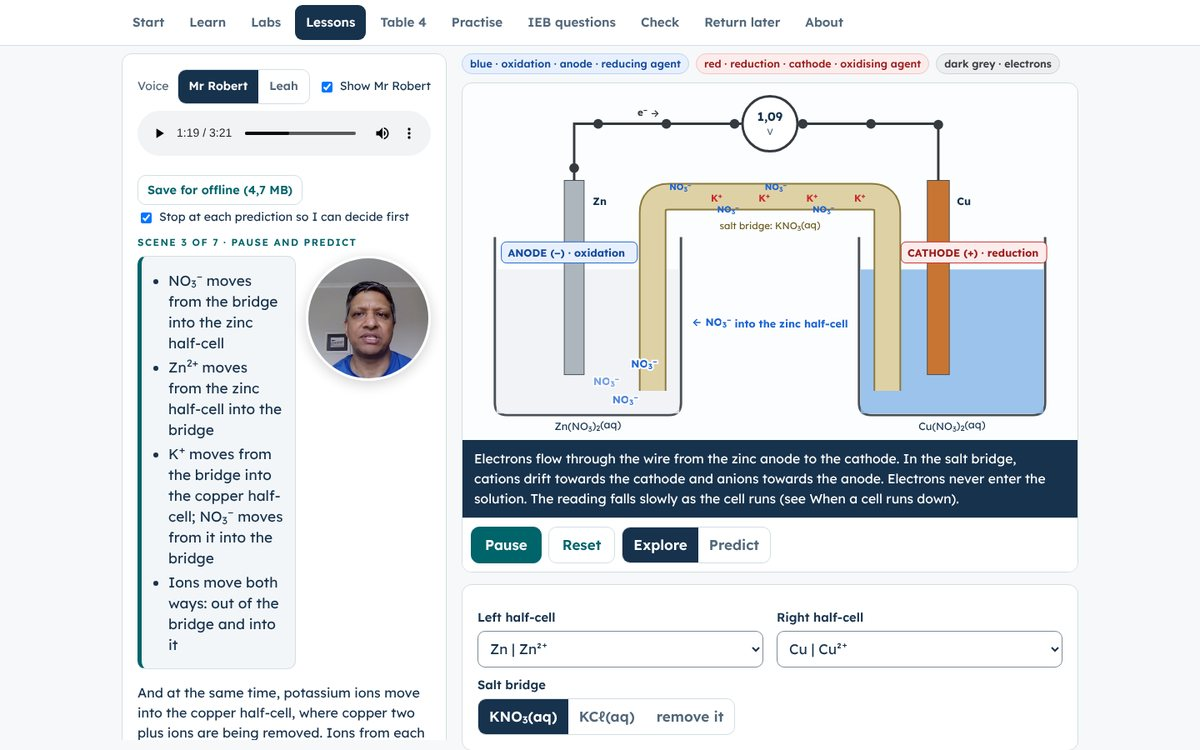
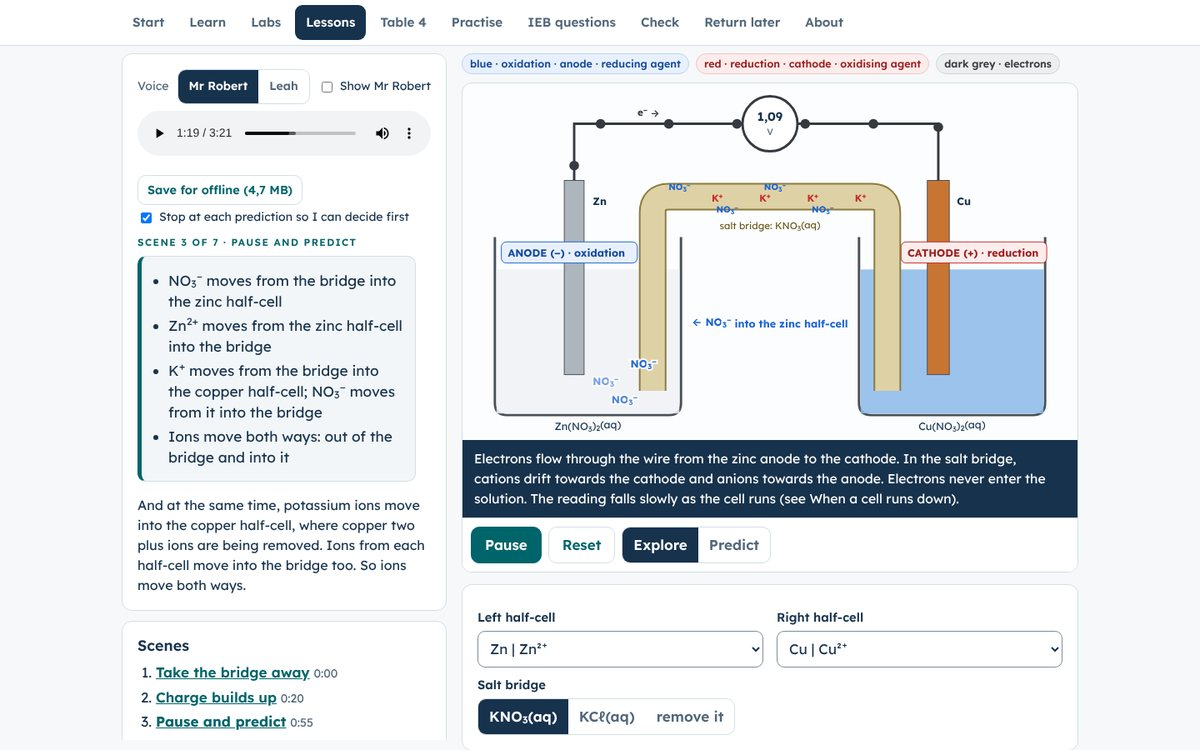
PD deck: no face in the talk; week video is voice only
Lesson screenshots in the deck are retaken with the face circle off,
and the slide text no longer mentions the face. The recording page
gets a voice-only mode (no camera, audio-only takes), used by the
week script. The face stays in the studio lesson itself.

Claude-Session: https://claude.ai/code/session_013EUEmas36xm6m9oQ3w2g8d

diff --git a/ai-pd/index.html b/ai-pd/index.html
@@ -603,9 +603,9 @@
     <p class="kicker">Act 3 · Watch: lessons in my own voice</p>
     <h2 class="headline">The lesson video <em>stops and makes pupils predict</em> before it explains.</h2>
     <div class="body vidwrap">
-      <div class="bcenter vshot"><img class="shot" src="img/week/l4-lesson.jpg" alt="The salt bridge lesson: Mr Robert in a circle beside the board, the live cell lab acting out the nitrate ions moving into the zinc half-cell"><button class="bopen" data-view="https://noelrobert-science.github.io/electrochemistry/#listen/L4" data-fallback="img/week/l4-lesson.jpg">Open the lesson ▸</button></div>
+      <div class="bcenter vshot"><img class="shot" src="img/week/l4-lesson.jpg" alt="The salt bridge lesson: the board beside the live cell lab, which acts out the nitrate ions moving into the zinc half-cell"><button class="bopen" data-view="https://noelrobert-science.github.io/electrochemistry/#listen/L4" data-fallback="img/week/l4-lesson.jpg">Open the lesson ▸</button></div>
       <div class="feats">
-        <div class="feat fragment dim-after" data-fx="none">A <b>3-minute lesson</b> in my own voice, my face in the corner</div>
+        <div class="feat fragment dim-after" data-fx="none">A <b>3-minute lesson</b> in my own voice, not an AI voice</div>
         <div class="feat fragment dim-after" data-fx="none">It <b>stops at the prediction</b>: write it down first</div>
         <div class="feat fragment dim-after" data-fx="none">The live lab <b>acts out</b> every sentence I say</div>
         <div class="feat fragment" data-fx="none">It ends with <b>Now train this</b>, one tap away</div>
@@ -614,7 +614,7 @@
   </div>
   <aside class="notes">
     Lesson 4, the salt bridge. I recorded it on 10 Nov 2026 on my laptop's own microphone, using a private recording page with a teleprompter. The sound was cleaned up, timed to the script and published the same day. No studio, no editing software on my side.
-    Pupils can switch to the AI voice (Leah) or hide my face, but the default is me: in the one study with high-school pupils and their own teacher (Griffiths 2024, 262 pupils aged 13 to 16), learning was about the same, but pupils felt more connected and more motivated. So expect engagement, not miracle marks. The face is small and only shows at the hook, the prediction, the trap and the end, because a face on screen pulls eyes off the diagram (Beege et al. 2023).
+    Pupils can switch to the AI voice (Leah), but the default is me. In the studio a small circle of my face can show at the hook, the prediction and the end (pupils can switch it off); it is deliberately not shown in this talk. In the one study with high-school pupils and their own teacher (Griffiths 2024, 262 pupils aged 13 to 16), learning was about the same, but pupils felt more connected and more motivated. So expect engagement, not miracle marks. A face on screen also pulls eyes off the diagram (Beege et al. 2023), so the lab does the showing.
     The lesson stops at the prediction ("Which ions move into the zinc half-cell? Pause and write it down"). The lab only shows the answer after they decide.
     Click "Open the lesson" to play it live (needs Wi-Fi).
     Sources: Electrochemistry Studio, Lessons, Lesson 4 (noelrobert-science.github.io/electrochemistry/#listen/L4, captured 10 Nov 2026); "Teacher-presented lessons: research and pilot plan" (10 Nov 2026).
@@ -736,7 +736,7 @@
     </div>
   </div>
   <aside class="notes">
-    Click Play (or Space). About 90 seconds: start of the lesson, in class, watch, train, write, check, days later. My face at the start and the end; real app screens in between; captions built in.
+    Click Play (or Space). About 90 seconds: start of the lesson, in class, watch, train, write, check, days later. My voice only (no face); real app screens throughout; captions built in.
     If the video hasn't been added yet, the slide says "Recording next" and the week timeline on the slide before covers the same ground.
     Sources: script in recorder/week.json (10 Nov 2026), drawn from "How a learner uses it all", "A typical week".
   </aside>

diff --git a/recorder/index.html b/recorder/index.html
@@ -189,7 +189,8 @@ video.playback { width: 100%; max-width: 420px; border-radius: 10px; background:
     const saved = await dbGet(lessonId + ':script');
     if (saved) script.scenes.forEach((s) => { if (saved[s.slug]) s.lines = saved[s.slug]; });
     items = [{ slug: script.roomTone.slug, t: 'Room tone', note: script.roomTone.note, lines: [], tone: true }].concat(script.scenes);
-    $('lessonName').textContent = script.lesson + ' · ' + script.title;
+    $('lessonName').textContent = script.lesson + ' · ' + script.title + (script.voiceOnly ? ' · voice only, no camera' : '');
+    if (script.voiceOnly) { $('startCam').textContent = 'Turn on the mic'; const cam = document.querySelector('.cam'); if (cam) cam.hidden = true; $('setBtn').textContent = 'Mic settings'; }
     for (const it of items) { const t = await dbGet(lessonId + ':' + it.slug); if (t) takes[it.slug] = t; }
     cur = 1; render();
   }
@@ -247,16 +248,17 @@ video.playback { width: 100%; max-width: 420px; border-radius: 10px; background:
       if (stream) stream.getTracks().forEach((t) => t.stop());
       const raw = $('raw').checked;
       const v = $('camSel').value, a = $('micSel').value;
+      const vo = !!(script && script.voiceOnly);
       stream = await navigator.mediaDevices.getUserMedia({
-        video: Object.assign({ width: { ideal: 1280 }, height: { ideal: 720 }, frameRate: { ideal: 30 } }, v ? { deviceId: { exact: v } } : {}),
+        video: vo ? false : Object.assign({ width: { ideal: 1280 }, height: { ideal: 720 }, frameRate: { ideal: 30 } }, v ? { deviceId: { exact: v } } : {}),
         audio: Object.assign({ echoCancellation: !raw, noiseSuppression: !raw, autoGainControl: !raw, channelCount: 1, sampleRate: 48000 }, a ? { deviceId: { exact: a } } : {})
       });
       $('preview').srcObject = stream;
       meter(stream);
       await listDevices();
-      $('recBtn').disabled = false; $('startCam').textContent = 'Restart camera and mic';
+      $('recBtn').disabled = false; $('startCam').textContent = vo ? 'Restart the mic' : 'Restart camera and mic';
       $('tips').hidden = true; $('setupH').hidden = true; $('setup').hidden = true; $('setBtn').hidden = false;  // keep the prompter near the top, close to the webcam
-      say('Camera on. Press Record (or Space) when you are ready.');
+      say(vo ? 'Mic on (no camera: this script is voice only). Press Record (or Space) when you are ready.' : 'Camera on. Press Record (or Space) when you are ready.');
     } catch (e) {
       say('The camera or mic did not start: ' + (e && e.name ? e.name : e) + '. Allow camera and mic for this site, then try again.');
     }
@@ -285,6 +287,7 @@ video.playback { width: 100%; max-width: 420px; border-radius: 10px; background:
 
   /* ---------- recording ---------- */
   function pickMime() {
+    if (script && script.voiceOnly) return ['audio/webm;codecs=opus', 'audio/webm', 'audio/mp4'].find((m) => window.MediaRecorder && MediaRecorder.isTypeSupported(m)) || '';
     const opts = ['video/webm;codecs=vp9,opus', 'video/webm;codecs=vp8,opus', 'video/webm', 'video/mp4;codecs=avc1,mp4a.40.2', 'video/mp4'];
     return opts.find((m) => window.MediaRecorder && MediaRecorder.isTypeSupported(m)) || '';
   }
@@ -301,7 +304,7 @@ video.playback { width: 100%; max-width: 420px; border-radius: 10px; background:
     await countdown();
     const mime = pickMime();
     chunks = [];
-    try { rec = new MediaRecorder(stream, Object.assign({ videoBitsPerSecond: 5000000, audioBitsPerSecond: 192000 }, mime ? { mimeType: mime } : {})); }
+    try { rec = new MediaRecorder(stream, Object.assign(script.voiceOnly ? { audioBitsPerSecond: 192000 } : { videoBitsPerSecond: 5000000, audioBitsPerSecond: 192000 }, mime ? { mimeType: mime } : {})); }
     catch (e) { armed = false; say('This browser cannot record video. Use Chrome or Edge on your laptop.'); return; }
     rec.ondataavailable = (e) => { if (e.data && e.data.size) chunks.push(e.data); };
     rec.onstop = async () => {
